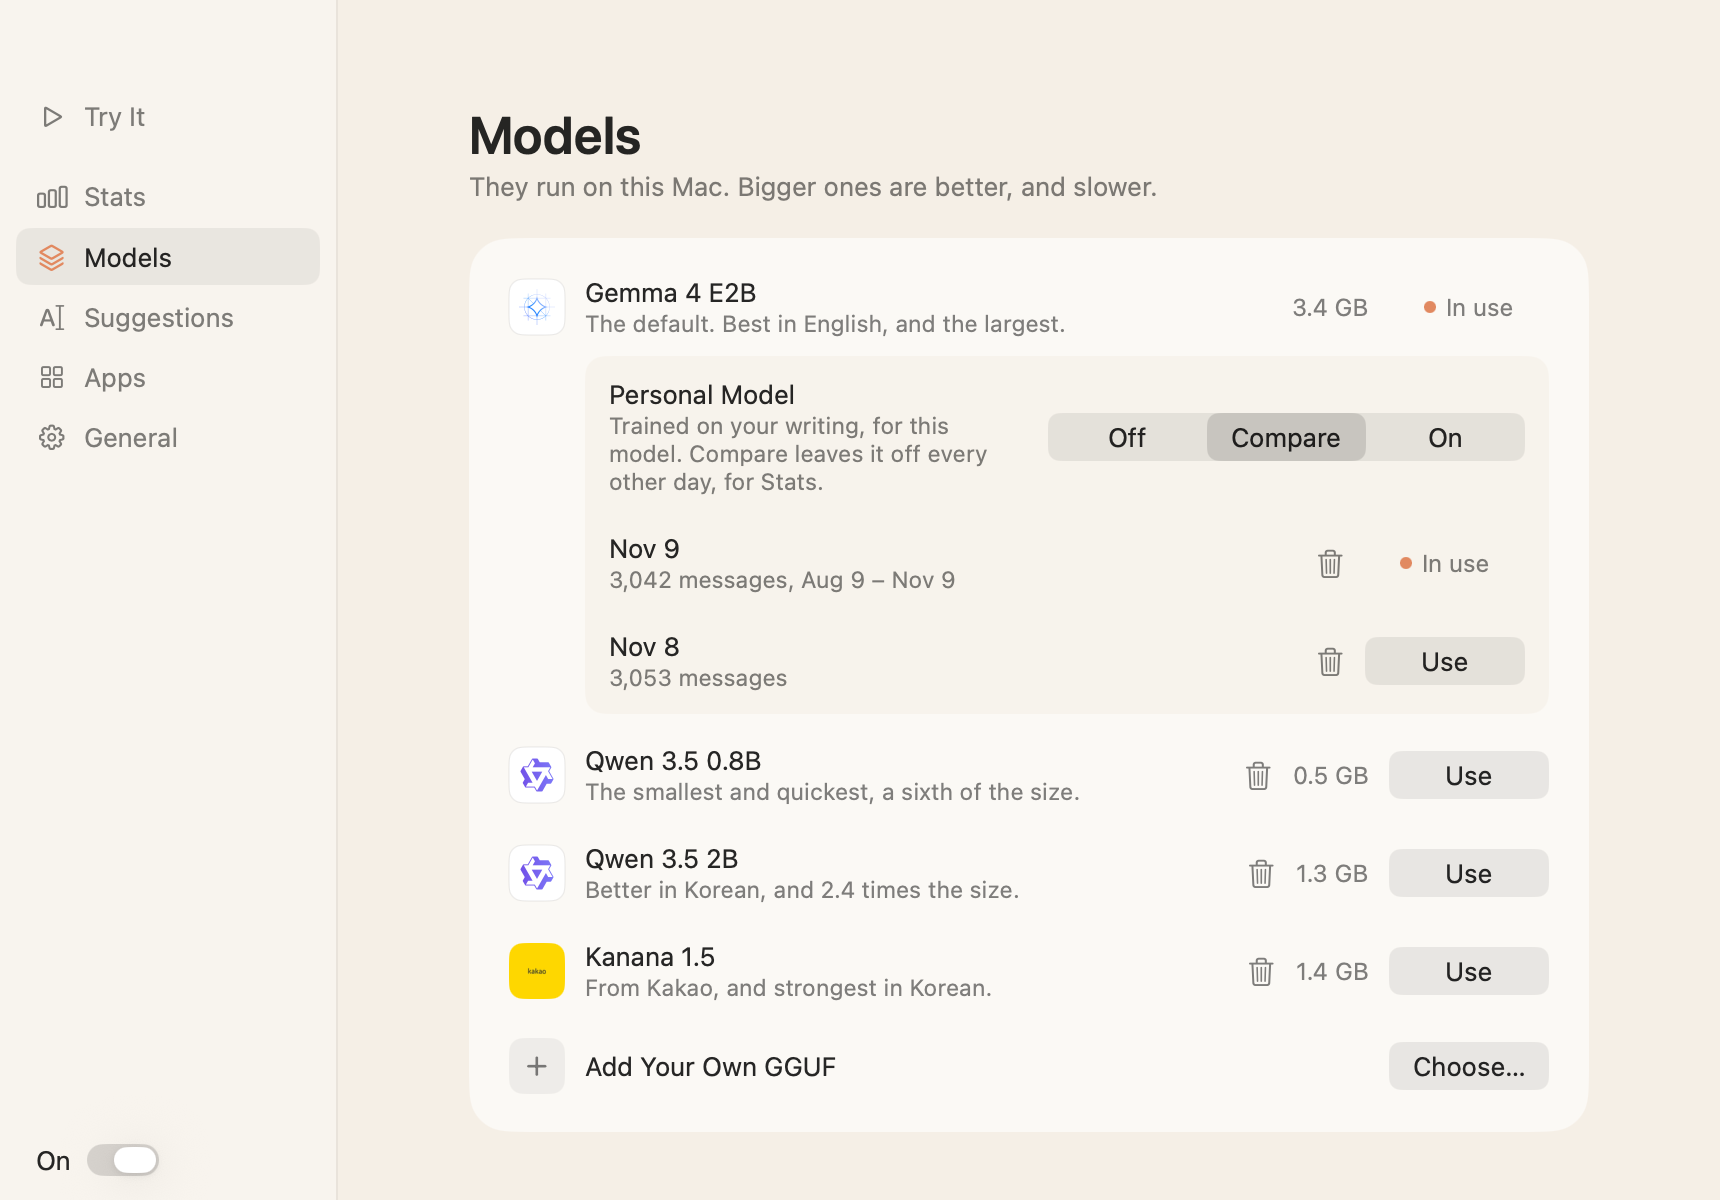
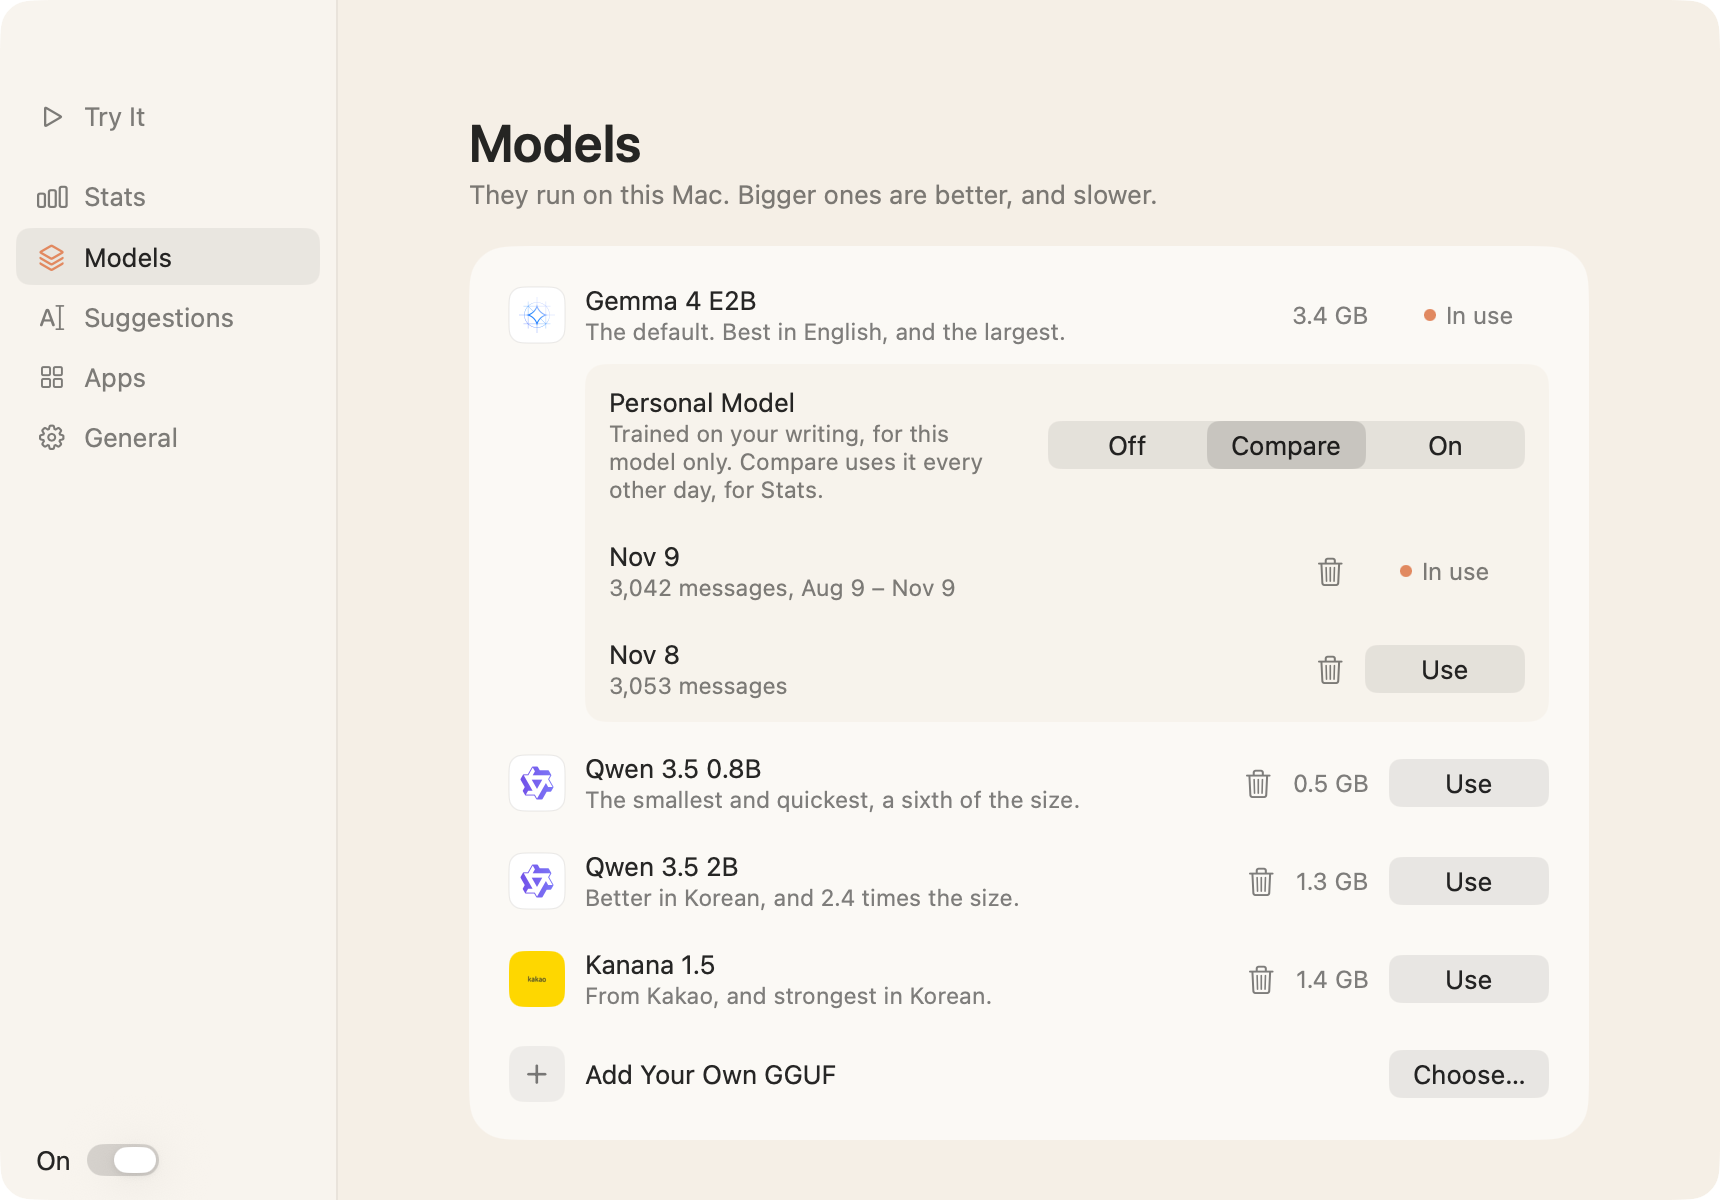
Window: pages sit in the title bar's safe area instead of a 28 pt guess; window shots use the app's titled style; the sidebar marks its page selected for VoiceOver

diff --git a/Sources/HalftypeApp/Window.swift b/Sources/HalftypeApp/Window.swift
@@ -33,28 +33,25 @@ struct Root: View {
 
     var body: some View {
         Group {
-            if app.onboarding { Onboarding(app: app, step: onboardingStep) } else { home }
+            if app.onboarding { Onboarding(app: app, step: onboardingStep).ignoresSafeArea() } else { home }
         }
         .frame(minWidth: 720, idealWidth: 860, minHeight: 480, idealHeight: 600)
         // The icon's cream tile.
         .background(Root.cream)
         // Cream in dark mode too (docs/design/home-glass).
         .preferredColorScheme(.light)
-        .ignoresSafeArea()
     }
 
     private var home: some View {
         HStack(spacing: 0) {
-            sidebar
-            Divider().opacity(0.5)
+            sidebar.ignoresSafeArea()
+            Divider().opacity(0.5).ignoresSafeArea()
             Group {
                 if page == .field {
-                    FieldPage(app: app, draft: $draft).background { Arch() }.clipped()
+                    FieldPage(app: app, draft: $draft).background { Arch() }.clipped().ignoresSafeArea()
                 } else {
-                    // Below the title bar, so a page scrolls out of sight there instead of under it.
+                    // Inside the safe area, which the title bar sets: a page scrolls out of sight below it instead of under it.
                     ScrollView { settings.frame(maxWidth: 560).padding(.horizontal, 32).padding(.vertical, 24).frame(maxWidth: .infinity) }
-                        .scrollIndicators(.automatic)
-                        .padding(.top, 28)
                         .id(page)  // Each page opens at its top.
                 }
             }
@@ -97,6 +94,7 @@ struct Root: View {
         }
         .buttonStyle(.plain)
         .background(page == shown ? Color.primary.opacity(0.07) : .clear, in: RoundedRectangle(cornerRadius: 7))
+        .accessibilityAddTraits(page == shown ? .isSelected : [])
         // Try It stands apart from the pages about Halftype itself.
         .padding(.bottom, shown == .field ? 10 : 0)
     }

diff --git a/Tests/HalftypeAppTests/PureTests.swift b/Tests/HalftypeAppTests/PureTests.swift
@@ -1838,7 +1838,10 @@ final class FakeServer: URLProtocol {
 
     /// A window ordered in at the back, never key, captured by its ID: the only picture with both the ribbon and a ScrollView.
     func onScreen(_ name: String, _ root: Root, _ size: CGSize, wait: TimeInterval = 1.2) throws {
-        let window = NSWindow(contentRect: CGRect(origin: .zero, size: size), styleMask: [.borderless], backing: .buffered, defer: false)
+        // The app's own window style (`showWindow`), so the title bar sets the safe area as it does there.
+        let window = NSWindow(contentRect: CGRect(origin: .zero, size: size), styleMask: [.titled, .fullSizeContentView], backing: .buffered, defer: false)
+        window.titlebarAppearsTransparent = true
+        window.titleVisibility = .hidden
         window.contentView = NSHostingView(rootView: root)
         window.orderBack(nil)
         defer { window.orderOut(nil) }
